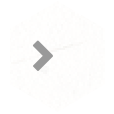
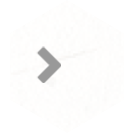
Resize MemoryViewer

diff --git a/InteractiveTable/Pages/MemoryViewer.xaml b/InteractiveTable/Pages/MemoryViewer.xaml
@@ -4,39 +4,40 @@
       xmlns:mc="http://schemas.openxmlformats.org/markup-compatibility/2006" 
       xmlns:d="http://schemas.microsoft.com/expression/blend/2008" 
       mc:Ignorable="d" 
-      d:DesignHeight="300" d:DesignWidth="300" Width="1600" Height="900">
+      d:DesignHeight="300" d:DesignWidth="300" Width="1920" Height="1080">
     <Grid ClipToBounds="True">
         <Grid.ColumnDefinitions>
-            <ColumnDefinition Width="950"/>
-            <ColumnDefinition Width="650"/>
+            <ColumnDefinition Width="1140"/>
+            <ColumnDefinition/>
         </Grid.ColumnDefinitions>
 
-        <Image x:Name="mainPhoto" Width="950" Height="900" Stretch="UniformToFill"/>
+        <Image x:Name="mainPhoto" Width="1140" Height="1080" Stretch="UniformToFill"/>
 
         <Button x:Name="back_button" Template="{DynamicResource BackButtonTemplate}" Click="Back_Button_Click" Foreground="White"
-                HorizontalAlignment="Left" VerticalAlignment="Top" Margin="60,795,0,0"/>
+                HorizontalAlignment="Left" VerticalAlignment="Top" Margin="75,955,0,0" FocusVisualStyle="{x:Null}"/>
         
         <Button x:Name="next_view_button" Click="Next_View_Button_Click" Template="{DynamicResource HexagonButtonTemplate}" Content="/InteractiveTable;component/Images/MemoryViewer/NextViewButton.png"
-                Width="114" Height="114" Padding="5,0" HorizontalAlignment="Left" VerticalAlignment="Center" Margin="893,0,0,0" Grid.ColumnSpan="2"/>
+                Width="134" Height="134" Padding="5,0" HorizontalAlignment="Left" VerticalAlignment="Center" Margin="1073,0,0,0" Grid.ColumnSpan="2" FocusVisualStyle="{x:Null}"/>
+        
         <Button x:Name="back_view_button" Click="Back_View_Button_Click" Template="{DynamicResource HexagonButtonTemplate}" Content="/InteractiveTable;component/Images/MemoryViewer/BackViewButton.png"
-                Width="114" Height="114" Padding="5,0" HorizontalAlignment="Left" VerticalAlignment="Center" Margin="-56,0,0,0"/>
+                Width="134" Height="134" Padding="5,0" HorizontalAlignment="Left" VerticalAlignment="Center" Margin="-67,0,0,0" FocusVisualStyle="{x:Null}"/>
 
-        <ScrollViewer Grid.Column="1" Width="650" Height="900" Background="White" Template="{DynamicResource ScrollViewerTemplate}"
+        <ScrollViewer Grid.Column="1" Background="White" Template="{DynamicResource ScrollViewerTemplate}"
                       VerticalScrollBarVisibility="Auto" UseLayoutRounding="True" PanningMode="VerticalOnly">
             <Grid>
                 <Grid.RowDefinitions>
-                    <RowDefinition Height="450"/>
+                    <RowDefinition Height="571"/>
                     <RowDefinition Height="Auto" />
                 </Grid.RowDefinitions>
 
-                <Rectangle x:Name="subPhoto" Width="520" Height="410" Stroke="White" StrokeThickness="20">
+                <Rectangle x:Name="subPhoto" Width="630" Height="500" Stroke="White" StrokeThickness="20">
                     <Rectangle.Effect>
                         <DropShadowEffect Opacity="0.15"/>
                     </Rectangle.Effect>
                 </Rectangle>
 
                 <FlowDocumentScrollViewer x:Name="documentDiscription" HorizontalScrollBarVisibility="Disabled" VerticalScrollBarVisibility="Disabled"
-                                          Grid.Row="1" Width="555" IsHitTestVisible="False">
+                                          Grid.Row="1" Width="660" IsHitTestVisible="False">
                     <FlowDocument/>
                 </FlowDocumentScrollViewer>
             </Grid>
